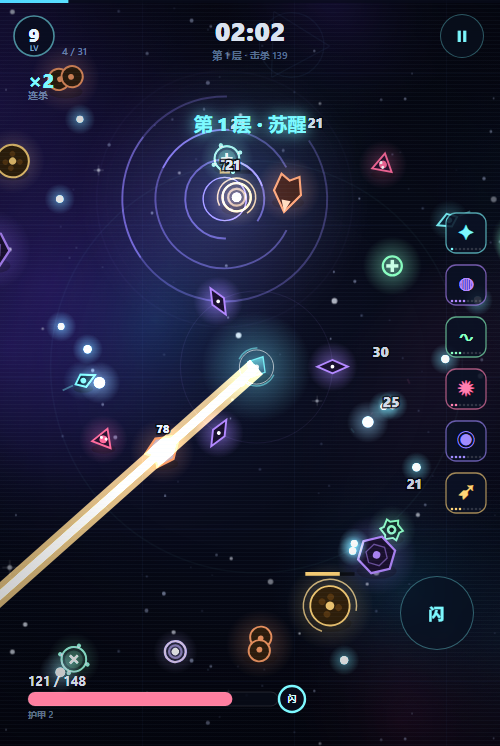
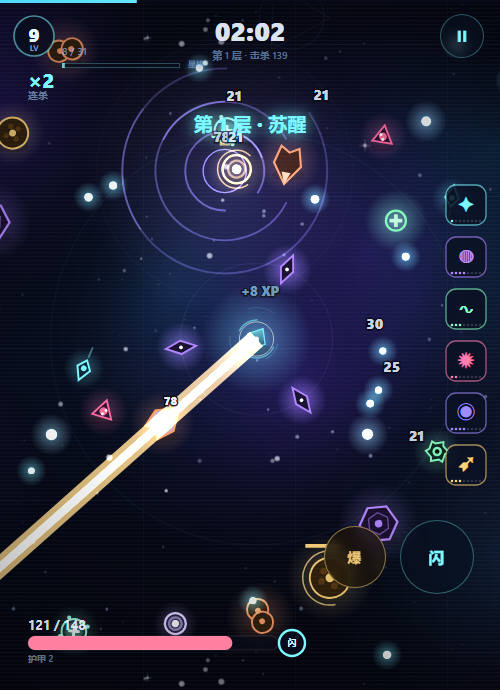
项目: 《星渊回响》v1.20.0 —— 事件奖励与图鉴

diff --git a/projects/aether-echo/js/ui.js b/projects/aether-echo/js/ui.js
@@ -698,6 +698,14 @@
           '<div class="codex-desc">' + r.desc + '</div>' +
           '</div>';
       }).join('');
+      const events = D.EVENTS.map(function (e) {
+        return '<div class="codex-card" style="--c:' + e.color + '">' +
+          '<div class="codex-top"><span class="codex-icon">' + e.icon + '</span><span class="codex-tag">星象</span></div>' +
+          '<div class="codex-name">' + e.name + '</div>' +
+          '<div class="codex-desc">' + e.desc + '</div>' +
+          '<div class="codex-stats">持续 ' + e.dur + ' 秒 · 结束后回复 8% 生命</div>' +
+          '</div>';
+      }).join('');
       const html =
         '<div class="screen codex-screen">' +
         '<div class="meta-head"><div style="display:flex;align-items:center;gap:14px">' +
@@ -710,6 +718,8 @@
         '<div class="codex-grid">' + passives + '</div>' +
         '<div class="section-label">遗物 · ' + D.RELICS.length + ' 件（击破首领后获得）</div>' +
         '<div class="codex-grid">' + relics + '</div>' +
+        '<div class="section-label">星象事件 · ' + D.EVENTS.length + ' 种</div>' +
+        '<div class="codex-grid">' + events + '</div>' +
         '<div class="section-label">虚空生物</div>' +
         '<div class="codex-rows">' + enemies + '</div>' +
         '<div class="section-label">首领</div>' +

diff --git a/projects/aether-echo/css/style.css b/projects/aether-echo/css/style.css
@@ -525,12 +525,12 @@ html, body {
 .touch-dash:active { background: rgba(125, 249, 255, 0.18); }
 
 .touch-ult {
-  position: fixed; right: 32px; bottom: 182px; z-index: 20;
+  position: fixed; right: 114px; bottom: 102px; z-index: 20;
   width: 62px; height: 62px; border-radius: 50%;
-  border: 1px solid rgba(255, 212, 121, 0.28);
-  background: rgba(20, 14, 6, 0.5);
-  color: rgba(255, 212, 121, 0.65); font-size: 14px; font-weight: 800;
-  letter-spacing: 0.1em; opacity: 0.55;
+  border: 1px solid rgba(255, 212, 121, 0.55);
+  background: rgba(28, 19, 7, 0.72);
+  color: #ffd479; font-size: 14px; font-weight: 800;
+  letter-spacing: 0.1em; opacity: 0.92;
   backdrop-filter: blur(6px); touch-action: none;
   transition: 0.2s;
 }
@@ -974,5 +974,5 @@ body.reduce-motion *::after {
   .menu-screen { height: auto; min-height: 100%; }
   .brand-title { font-size: clamp(30px, 5vw, 44px); }
   .touch-dash { right: calc(104px + env(safe-area-inset-right, 0px)); bottom: calc(34px + env(safe-area-inset-bottom, 0px)); }
-  .touch-ult { right: calc(104px + env(safe-area-inset-right, 0px)); bottom: calc(116px + env(safe-area-inset-bottom, 0px)); width: 54px; height: 54px; }
+  .touch-ult { right: calc(188px + env(safe-area-inset-right, 0px)); bottom: calc(34px + env(safe-area-inset-bottom, 0px)); width: 54px; height: 54px; }
 }

diff --git a/projects/aether-echo/js/game.js b/projects/aether-echo/js/game.js
@@ -566,7 +566,12 @@
           if (G.meteorT <= 0) { G.meteorT = 0.72; this.dropMeteor(); }
         }
         if (G.eventLeft <= 0) {
-          this.announce('星象平息 · ' + G.event.name, G.event.color, 1.6);
+          const p = G.player;
+          if (p) {
+            AE.Player.heal(p, p.maxHp * 0.08);
+            G.echoBonus += 5;
+          }
+          this.announce('星象平息 · 回复 8%', G.event.color, 1.8);
           G.event = null;
           G.eventT = 60 + Math.random() * 25;
         }

diff --git a/projects/aether-echo/js/data.js b/projects/aether-echo/js/data.js
@@ -9,7 +9,7 @@
   const D = (g.DATA = g.DATA || {});
   AE.Data = D;
 
-  D.VERSION = '1.19.0';
+  D.VERSION = '1.20.0';
   D.TITLE = '星渊回响';
   D.SUBTITLE = 'AETHER ECHO';
 

diff --git a/projects/aether-echo/README.md b/projects/aether-echo/README.md
@@ -53,7 +53,7 @@ python -m http.server 8080
 - **七名角色**：逐光者把闪避本身变成穿身伤害，噬星者靠击杀永久叠伤，灼星者让所有命中附带持续燃烧并引燃周围。
 - **局外成长**：每局结束按表现结算「回响」，用于购买永久强化、解锁新角色。
 - **深渊契约**：开局可自选 1~4 条难度词条（兽潮 / 狂怒 / 疾行 / 精锐），每条敌人更强、结算回响 +20%，单独记录契约最佳。
-- **图鉴 / 档案**：全部武器、被动、敌人、首领可查；26 项成就、生涯统计与本地最佳记录。
+- **图鉴 / 档案**：全部武器、被动、敌人、首领、遗物、星象事件可查；26 项成就、生涯统计与本地最佳记录。
 - **每日挑战**：每天一个固定种子，叠加 2 条随机扰动（敌人移速 / 伤害 / 经验 / 护甲等），单独记录今日最佳。
 - **设置**：音乐 / 音效音量、屏幕震动、伤害数字、动态效果、高对比、画质，自动保存；持续掉帧会自动降一档画质。
 - **自动存档**：进度保存在浏览器 localStorage。
@@ -142,6 +142,8 @@ python -m http.server 8080
 | 星核涌动 | 10 秒内攻速 +35%，星核能量获取翻倍 |
 | 精英狩猎 | 立刻出现 3 名精英，击杀收益更高 |
 
+事件结束会回复 8% 生命并额外获得 5 点回响；全部事件已加入图鉴。
+
 ---
 
 ## 技术实现
@@ -181,7 +183,7 @@ aether-echo/
 这个项目在没有手动点击的情况下做了两轮自动化验证：
 
 1. **Node 无头模拟器**（`tools/sim.cjs`）：在 Node 中加载真实游戏代码 + Canvas/DOM 桩，跑完整 10 分钟对局，机器人自动走位与选卡，输出等级 / 击杀 / BOSS / DPS 时间线，用于数值平衡。
-2. **Chrome CDP 自动化**（`tools/selftest.html` + `tools/cdp-selftest.cjs`）：真实浏览器中执行 83 项 UI 冒烟测试（菜单、开始、升级选卡、暂停、恢复、结算、强化购买、角色解锁、逐光者闪避伤害、噬星者击杀叠伤、星核爆发与能量积攒、深渊之眼运转、遗物数量与处决 / 雷霆效果、深渊契约开关与倍率、设置、高对比 / 低动态、图鉴、档案、成就、每日挑战种子与每日记录、首领登场、首领连战、遗物三选一），并抓取控制台异常；同时用 CDP 截图做视觉回归，覆盖 1600×1000 桌面、1280×720 短屏与手机竖屏。
+2. **Chrome CDP 自动化**（`tools/selftest.html` + `tools/cdp-selftest.cjs`）：真实浏览器中执行 84 项 UI 冒烟测试（菜单、开始、升级选卡、暂停、恢复、结算、强化购买、角色解锁、逐光者闪避伤害、噬星者击杀叠伤、星核爆发与能量积攒、深渊之眼运转、遗物数量与处决 / 雷霆效果、深渊契约开关与倍率、设置、高对比 / 低动态、图鉴、档案、成就、每日挑战种子与每日记录、首领登场、首领连战、遗物三选一），并抓取控制台异常；同时用 CDP 截图做视觉回归，覆盖 1600×1000 桌面、1280×720 短屏与手机竖屏。
 
 运行方式（本机 Electron 内置 Node）：
 
@@ -192,7 +194,7 @@ aether-echo/
 # 数值模拟：标签 局数 最长秒数 起始种子 [god]
 <electron> tools/sim.cjs demo 4 700 1
 
-# UI 冒烟测试（真实 Chrome，83 项断言，结果写入 tools/selftest-result.txt）
+# UI 冒烟测试（真实 Chrome，84 项断言，结果写入 tools/selftest-result.txt）
 <electron> tools/cdp-selftest.cjs file:///.../tools/selftest.html tools/selftest-result.txt
 
 # 截图（需要 Chrome）
@@ -257,6 +259,7 @@ aether-echo/
 
 ## 版本记录
 
+- **1.20.0** — 星象事件闭环：事件结束回复 8% 生命并 +5 回响，图鉴新增星象事件页；手机端修复星核爆发按钮在战斗中不可见的问题（截图工具补按钮、按钮挪到「闪」左侧并提高对比度）；UI 冒烟测试扩到 84 项。
 - **1.19.0** — 新系统成就补齐：凝视深渊（击破深渊之眼）、星象观测者（单局 5 次事件）、燎原（单局灼烧击杀 300）、超新星（单局 20 次星核爆发）；成就总数扩到 26 项，UI 冒烟测试扩到 83 项。
 - **1.18.0** — 首领连战从五连战升级为「六连战」：深渊之眼加入最终席位，按织巢者 → 裂界兽 → 千目 → 星蚀 → 终焉回响 → 深渊之眼顺序连打；连战结算与最佳记录同步更新，UI 冒烟测试扩到 82 项。
 - **1.17.0** — 新增两件遗物：灼热核心（灼烧伤害 +50%）与超载电池（星核获取 +40%，立即 +30 能量），把燃烧流与主动技串成专属构筑；遗物池扩到 20 件；UI 冒烟测试扩到 81 项。
@@ -294,4 +297,4 @@ aether-echo/
 
 ---
 
-*版本 1.19.0 · 无外部素材 · 无第三方依赖*
+*版本 1.20.0 · 无外部素材 · 无第三方依赖*
